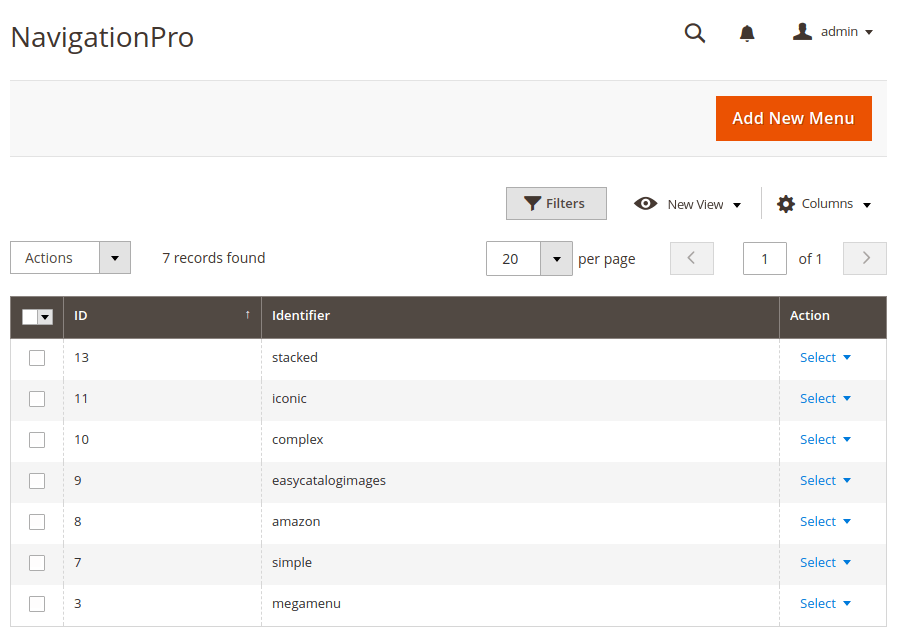
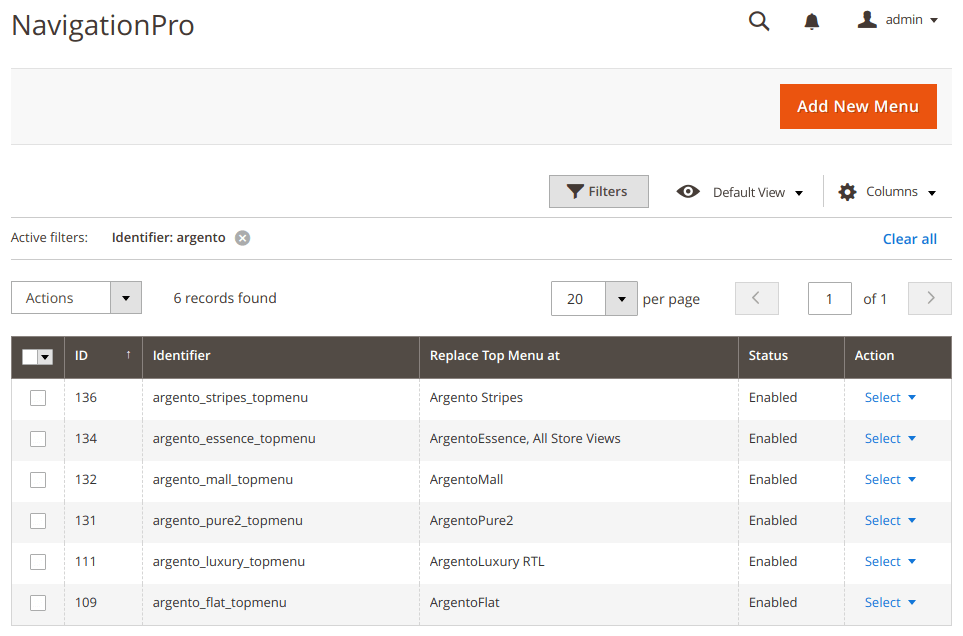
Navigationpro M2: Changelog

diff --git a/m2/extensions/navigationpro/changelog.md b/m2/extensions/navigationpro/changelog.md
@@ -8,6 +8,30 @@ category: Navigationpro
 
 # Changelog
 
+### Version 1.7.0
+
+> Sep 20, 2018
+
+{% include gallery.html images=site.data.gallery.m2.navigationpro.changelog.v170 class="phone-up-2 tablet-up-3 photoswipe scroll" %}
+
+ -  Magento 2.2.6 compatibility:
+    - Fixed double caret icons near items with dropdowns
+    - Fixed dropdown positioning for Amazon menu type
+ -  Added ability to change [dropdown positioning](/m2/extensions/navigationpro/ui/dropdown-position/)
+    for [particular dropdown item](/m2/extensions/navigationpro/use-cases/dropdown-position/).
+
+**Backend Improvements**
+
+ -  Added ability to assign menu to particular store during
+    [menu creation](/m2/extensions/navigationpro/backend/menu-new/#general-settings).
+    (Previously you had to create menu and than use system configuration to do that)
+ -  New column is added to the [menu grid](/m2/extensions/navigationpro/backend/menu-grid/).
+    It shows the list of stores where menu is used as top menu replacement.
+ -  Added ability to assign menu to particular store directly from
+    [menu settings form](/m2/extensions/navigationpro/backend/menu-settings/#general-settings).
+    (Previously you had to navigate to configuration to do that)
+ -  Renaming/Removing a menu no longer results in missing menu at the storefront
+
 ### Version 1.6.0
 
 {% include gallery.html images=site.data.gallery.m2.navigationpro.changelog.v160 class="phone-up-2 tablet-up-3 photoswipe scroll" %}

diff --git a/m2/extensions/navigationpro/use-cases/dropdown-position.md b/m2/extensions/navigationpro/use-cases/dropdown-position.md
@@ -1,0 +1,33 @@
+---
+layout: default
+title: Navigationpro Manual Dropdown Position
+description: How to change dropdown position
+category: Navigationpro
+---
+
+# Manual Dropdown Position
+
+> Don't have a menu yet? Create [simple menu][simple-menu] and come back!
+
+Sometimes you need to change dropdown position for particular dropdown only.
+Here is a short instruction on how to do that:
+
+ 1. Navigate to _Swissup > NavigationPro_ page, open menu to edit.
+ 2. Click on the parent item of the dropdown you wish to change.
+ 3. Add one of the following css classes into the
+    [CSS Class field](/m2/extensions/navigationpro/backend/menu-edit/#advanced-settings):
+
+    -  navpro-stick-left
+    -  navpro-stick-right
+    -  navpro-stick-center
+
+> If you want to change position for all First Level Dropdown items, please use
+> [Dropdown Position setting](/m2/extensions/navigationpro/ui/dropdown-position/).
+
+#### Next up
+{:.no_toc}
+
+ -  [Back to Main Page](/m2/extensions/navigationpro/)
+
+[simple-menu]: /m2/extensions/navigationpro/use-cases/simple-menu/ "Simple Menu"
+[config]: /m2/extensions/navigationpro/configuration/ "Configuration"

diff --git a/m2/extensions/navigationpro/use-cases/amazon-menu.md b/m2/extensions/navigationpro/use-cases/amazon-menu.md
@@ -17,17 +17,15 @@ category: Navigationpro
  1. Navigate to _Swissup > NavigationPro_ page, and press "Add New Menu".
  2. Fill the [form](/m2/extensions/navigationpro/backend/menu-new/) according to
     your needs and press "Save".
- 3. Navigate to _Stores > Configuration > Swissup > Navigationpro_
-    and enable new menu.
- 4. That's all. Clear Magento's cache and see the result on the frontend.
+ 3. That's all. Clear Magento's cache and see the result on the frontend.
 
 ### Sidebar menu
 
 ![Amazon Sidebar screenshot](/images/m2/navigationpro/use-cases/amazon-menu/amazon-sidebar-frontend.png)
 
  1. Navigate to _Swissup > NavigationPro_ page, and press "Add New Menu".
- 2. Fill the form according to your needs. It's **very important** to fill the
-    widget form too.
+ 2. Fill the form according to your needs. Leave "Replace Top Menu at" option empty.
+    It's **very important** to fill the widget form too.
  4. Press "Save".
  3. That's all. Clear Magento's cache and check the sidebar on category pages.
 

diff --git a/m2/extensions/navigationpro/use-cases/megamenu.md b/m2/extensions/navigationpro/use-cases/megamenu.md
@@ -12,9 +12,7 @@ category: Navigationpro
  1. Navigate to _Swissup > NavigationPro_ page, and press "Add New Menu".
  2. Fill the [form](/m2/extensions/navigationpro/backend/menu-new/) according to
     your needs and press "Save".
- 3. Navigate to _Stores > Configuration > Swissup > Navigationpro_
-    and enable new menu.
- 4. That's all. Clear Magento's cache and see the result on the frontend.
+ 3. That's all. Clear Magento's cache and see the result on the frontend.
 
 P.S. If you'd like to apply additional changes to the specific dropdown only,
 you can select the item in the tree and edit **Dropdown Settings** fields:
@@ -30,5 +28,4 @@ you can select the item in the tree and edit **Dropdown Settings** fields:
 
 [simple-menu]: /m2/extensions/navigationpro/use-cases/simple-menu/ "Simple Menu"
 [css-helpers]: /m2/extensions/navigationpro/customization/css-helpers/ "CSS Helpers"
-[config]: /m2/extensions/navigationpro/configuration/ "Configuration"
 

diff --git a/m2/extensions/navigationpro/use-cases/simple-menu.md b/m2/extensions/navigationpro/use-cases/simple-menu.md
@@ -25,9 +25,7 @@ will create basic menu from a scratch.
 
     ![Edit Item](/images/m2/navigationpro/use-cases/simple-menu/edit-item.png)
 
- 4. Activate new menu in [configuration][config]
-
- 5. Feel free to move items in the tree to get desired menu structure. The
+ 4. Feel free to move items in the tree to get desired menu structure. The
     changes **will not** affect real categories tree.
 
     See the following use cases that will help you to upgrade simple menu:
@@ -46,5 +44,4 @@ will create basic menu from a scratch.
 
 [simple-menu]: /m2/extensions/navigationpro/use-cases/simple-menu/ "Simple Menu"
 [css-helpers]: /m2/extensions/navigationpro/customization/css-helpers/ "CSS Helpers"
-[config]: /m2/extensions/navigationpro/configuration/ "Configuration"
 [import-modes]: /m2/extensions/navigationpro/ui/menu-items-tree/#import-item "Import Modes"

diff --git a/m2/extensions/navigationpro/use-cases/apple-menu.md b/m2/extensions/navigationpro/use-cases/apple-menu.md
@@ -37,15 +37,13 @@ icons.
     CSS Class: justify-evenly caret-hidden
     ```
 
- 4. Navigate to _Stores > Configuration > Swissup > Navigationpro_
-    and enable new menu.
- 5. That's all. Clear Magento's cache and see the result on the frontend.
+ 4. That's all. Clear Magento's cache and see the result on the frontend.
 
 ### Secondary Menu
 
  1. Navigate to _Swissup > NavigationPro_ page, and press **Add New Menu**.
  2. Create [new "AppleMenuSecondary" menu](/m2/extensions/navigationpro/backend/menu-new/)
-    using "Simple Menu" preset.
+    using "Simple Menu" preset. Leave "Replace Top Menu at" option empty.
  3. Expand top-level category in the tree on the left side, and fill its
     children ["Advanced Settings"](/m2/extensions/navigationpro/backend/menu-edit/#advanced-settings)
     with following values:

diff --git a/m2/extensions/navigationpro/use-cases/easycatalogimages-widget.md b/m2/extensions/navigationpro/use-cases/easycatalogimages-widget.md
@@ -7,8 +7,7 @@ category: Navigationpro
 
 # Easy Catalog Images Widget
 
-> Don't have a menu yet? Create [simple menu][simple-menu], activate it the
-> [config][config] and come back!
+> Don't have a menu yet? Create [simple menu][simple-menu] and come back!
 
 ![EasyCatalogImages Widget](/images/m2/navigationpro/use-cases/easycatalogimages-widget.png)
 
@@ -42,4 +41,3 @@ Use **Insert Widget** button in html content editor to insert the widget. Result
 [menu-settings]: /m2/extensions/navigationpro/backend/menu-settings/ "Menu Settings Panel"
 [css-helpers]: /m2/extensions/navigationpro/customization/css-helpers/ "CSS Helpers"
 [simple-menu]: /m2/extensions/navigationpro/use-cases/simple-menu/ "Simple Menu"
-[config]: /m2/extensions/navigationpro/configuration/ "Configuration"

diff --git a/m2/extensions/navigationpro/use-cases/iconic-menu.md b/m2/extensions/navigationpro/use-cases/iconic-menu.md
@@ -7,8 +7,7 @@ category: Navigationpro
 
 # Iconic Menu
 
-> Don't have a menu yet? Create [simple menu][simple-menu], activate it the
-> [config][config] and come back!
+> Don't have a menu yet? Create [simple menu][simple-menu] and come back!
 
 ## Contents
 {:.no_toc}
@@ -94,5 +93,4 @@ and uses one menu instance only.
 [menu-settings]: /m2/extensions/navigationpro/backend/menu-settings/ "Menu Settings Panel"
 [css-helpers]: /m2/extensions/navigationpro/customization/css-helpers/ "CSS Helpers"
 [simple-menu]: /m2/extensions/navigationpro/use-cases/simple-menu/ "Simple Menu"
-[config]: /m2/extensions/navigationpro/configuration/ "Configuration"
 [apple-menu]: /m2/extensions/navigationpro/use-cases/apple-menu/ "Apple Menu"

diff --git a/m2/extensions/navigationpro/use-cases/link-bar.md b/m2/extensions/navigationpro/use-cases/link-bar.md
@@ -28,7 +28,8 @@ show it under the header:
 Proceed with the following steps:
 
  1. Navigate to _Swissup > NavigationPro_ page and press **Add New Menu** button
- 2. Create "LinkBar" menu using ["Empty Menu" type](/m2/extensions/navigationpro/backend/menu-new/#general-settings)
+ 2. Create "LinkBar" menu using ["Empty Menu" type](/m2/extensions/navigationpro/backend/menu-new/#general-settings).
+    Do not fill the "Replace Top Menu at" field.
  3. [Import your store category tree](/m2/extensions/navigationpro/ui/menu-items-tree/#import-item)
     using **Import Item** button
  4. Press **Menu Settings** and change the following values:

diff --git a/m2/extensions/navigationpro/index.md b/m2/extensions/navigationpro/index.md
@@ -49,6 +49,7 @@ devices, tablets, and phones.
     - [Overlay](/m2/extensions/navigationpro/use-cases/overlay/)
     - [Nowrap (Single row menu)](/m2/extensions/navigationpro/use-cases/nowrap/)
     - [Link Bar on Mobile devices](/m2/extensions/navigationpro/use-cases/link-bar/)
+    - [Dropdown position](/m2/extensions/navigationpro/use-cases/dropdown-position/)
  8. [Customization](/m2/extensions/navigationpro/customization/)
     - [Custom CSS](/m2/extensions/navigationpro/customization/custom-css/)
     - [LESS variables with third-party themes](/m2/extensions/navigationpro/customization/custom-theme-variables/) -

diff --git a/m2/extensions/navigationpro/ui/index.md b/m2/extensions/navigationpro/ui/index.md
@@ -8,7 +8,8 @@ category: Navigationpro
 # UI Elements
 
  -  [Dropdown Width Modes](/m2/extensions/navigationpro/ui/dropdown-width-modes/)
- -  [Layout Builder](/m2/extensions/navigationpro/ui/dropdown-layout-builder/)
+ -  [Dropdown Position](/m2/extensions/navigationpro/ui/dropdown-position/)
+ -  [Dropdown Layout Builder](/m2/extensions/navigationpro/ui/dropdown-layout-builder/)
  -  [Menu Items Tree](/m2/extensions/navigationpro/ui/menu-items-tree/)
  -  [Menu Item Name as HTML](/m2/extensions/navigationpro/ui/menu-item-name-as-html/)
 

diff --git a/m2/extensions/navigationpro/customization/css-helpers.md b/m2/extensions/navigationpro/customization/css-helpers.md
@@ -90,6 +90,10 @@ Class Name          | Description
 `sm-hide-dropdown`  | Hide dropdown on tablet devices
 `md-hide-dropdown`  | Hide dropdown on laptop devices
 `lg-hide-dropdown`  | Hide dropdown on desktop devices
+**Dropdown Positioning** |
+`navpro-stick-left`   | Stick dropdown to the left
+`navpro-stick-right`  | Stick dropdown to the right
+`navpro-stick-center` | Stick dropdown to the center
 **Text Styles**     |
 `text-small`        | Use smaller font size
 `text-big`          | Use bigger font size
